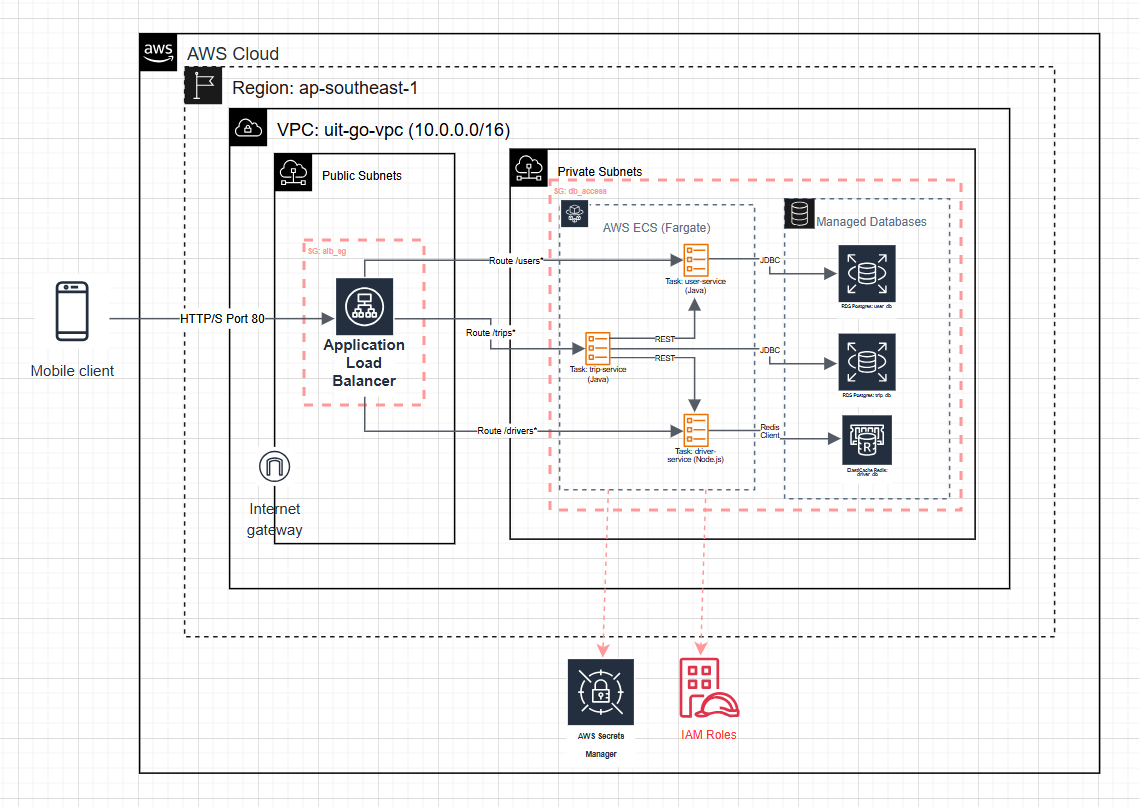
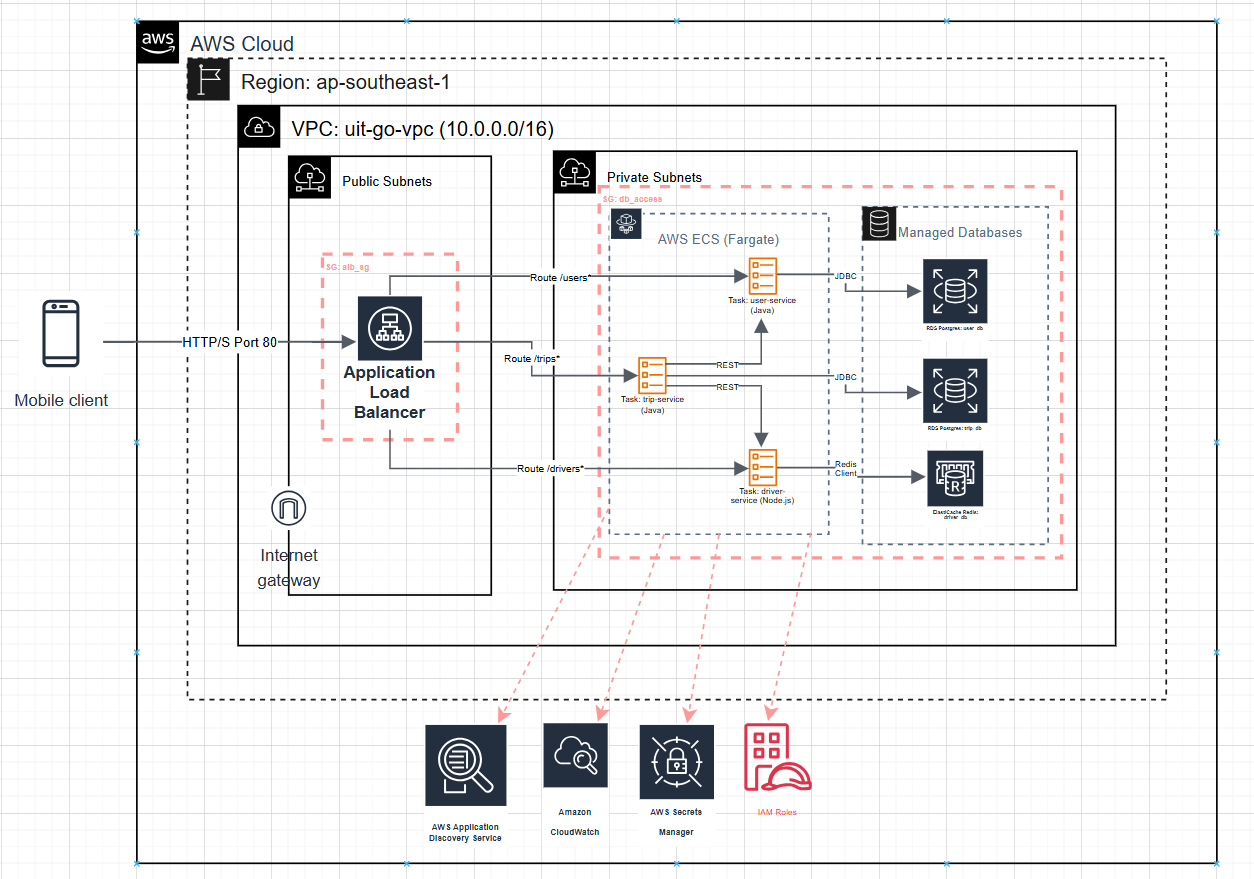
docs(adr): Them ADR 010 (Refactor), 011 (CloudMap), 012 (ECR) va cap nhap architecture

diff --git a/docs/adr/011-chon-cloud-map-cho-service-discovery.md b/docs/adr/011-chon-cloud-map-cho-service-discovery.md
@@ -1,0 +1,33 @@
+# ADR 011: Lựa chọn AWS Cloud Map cho Giao tiếp Nội bộ (Service Discovery)
+
+**Trạng thái:** Đã quyết định
+
+## Bối cảnh
+
+Trong môi trường ECS Fargate, các container (Tasks) được gán địa chỉ IP động mỗi khi chúng khởi động. Điều này tạo ra một vấn đề: Làm thế nào `TripService` (Java) có thể biết được địa chỉ IP hiện tại của `UserService` hoặc `DriverService` để gọi API nội bộ? Các URL tạm thời (`http://user-service.local:8080`) sẽ không hoạt động.
+
+## Các lựa chọn đã cân nhắc
+
+1.  **Gọi qua ALB Public:** `TripService` gọi vào DNS name công cộng của ALB.
+    * **Nhược điểm:** Rất tệ về hiệu năng và chi phí. Traffic đi "vòng" (hairpinning) ra Internet rồi quay lại VPC, gây trễ và tốn chi phí NAT Gateway/ALB.
+
+2.  **Sử dụng ALB Nội bộ (Internal ALB):** Tạo một ALB thứ hai, chỉ truy cập được bên trong VPC.
+    * **Ưu điểm:** Giải pháp tốt, cân bằng tải nội bộ.
+    * **Nhược điểm:** Tốn chi phí cho một ALB nữa. Vẫn cần cấu hình Target Group và Listener Rules.
+
+3.  **Sử dụng AWS Cloud Map (Service Discovery):**
+    * **Ưu điểm:** Giải pháp "chính chủ" (native) của AWS cho ECS. Chúng ta tạo một "namespace" (ví dụ: `uit-go.local`). ECS tự động đăng ký địa chỉ IP của các Task (ví dụ: `driver-service.uit-go.local`) vào đó. `TripService` chỉ cần gọi đến URL nội bộ này.
+    * **Nhược điểm:** Thêm một chút phức tạp ban đầu vào cấu hình Terraform (thêm `aws_service_discovery_service` và `service_registries`).
+
+## Quyết định
+
+Chúng ta quyết định chọn **AWS Cloud Map (Service Discovery)** (Lựa chọn 3) để xử lý giao tiếp nội bộ.
+
+## Lý do & Đánh đổi (Trade-offs)
+
+Đây là quyết định ưu tiên **Hiệu năng (Performance)** và **Kiến trúc Cloud-Native chuẩn** hơn là sự đơn giản (tránh dùng Lựa chọn 1).
+
+* **Ưu điểm (Chúng ta có):**
+    * Traffic giao tiếp nội bộ đi thẳng giữa các service (container-to-container) bên trong VPC, cho độ trễ thấp nhất.
+    * Hệ thống tự động cập nhật IP khi Task (container) khởi động lại hoặc scale.
+* **Nhược điểm (Chúng ta chấp nhận):** Chúng ta chấp nhận thêm tài nguyên Terraform (`aws_service_discovery_private_dns_namespace`) và cấu hình `service_registries` trong `aws_ecs_service`.

diff --git a/docs/adr/010-refactor-terraform-sang-modules.md b/docs/adr/010-refactor-terraform-sang-modules.md
@@ -1,0 +1,28 @@
+# ADR 010: Tái cấu trúc (Refactor) Terraform sang Modules
+
+**Trạng thái:** Đã quyết định
+
+## Bối cảnh
+
+File `main.tf` ban đầu chứa định nghĩa cho toàn bộ 40+ tài nguyên hạ tầng (VPC, Subnets, RDS, ElastiCache, Secrets Manager, ECS, ALB, ECR...). File này trở nên rất dài (hơn 500 dòng), khó đọc, khó bảo trì và khó tìm kiếm khi cần sửa đổi.
+
+## Các lựa chọn đã cân nhắc
+
+1.  **Giữ nguyên 1 file `main.tf` (Monolithic):**
+    * **Ưu điểm:** Đơn giản ban đầu, tất cả code ở một nơi.
+    * **Nhược điểm:** Vi phạm nguyên tắc "Tách biệt các mối quan tâm" (Separation of Concerns). Rất khó bảo trì, khó tìm lỗi, và không thể tái sử dụng.
+
+2.  **Tái cấu trúc sang Local Modules:**
+    * **Ưu điểm:** Phân chia code theo chức năng (ví dụ: `network`, `database`, `ecs`). File `main.tf` (gốc) trở nên gọn gàng, đọc như một bản tóm tắt kiến trúc. Dễ dàng quản lý và bảo trì từng phần.
+    * **Nhược điểm:** Tốn công sức refactor ban đầu (tạo file, di chuyển code, chạy `terraform state mv` để di chuyển trạng thái).
+
+## Quyết định
+
+Chúng ta quyết định chọn **Tái cấu trúc sang Local Modules** (Lựa chọn 2).
+
+## Lý do & Đánh đổi (Trade-offs)
+
+Đây là quyết định ưu tiên **Tính bảo trì (Maintainability)** và **Tính rõ ràng (Clarity)** về lâu dài hơn là sự thuận tiện ban đầu.
+
+* **Ưu điểm (Chúng ta có):** Mã nguồn IaC được tổ chức sạch sẽ, dễ hiểu. Dễ dàng nâng cấp hoặc sửa đổi từng phần (ví dụ: chỉ cần vào module `database` để sửa CSDL) mà không ảnh hưởng đến các phần khác.
+* **Nhược điểm (Chúng ta chấp nhận):** Chúng ta chấp nhận bỏ ra thời gian ban đầu để thực hiện refactor và chạy các lệnh `terraform state mv` phức tạp để di chuyển trạng thái mà không phá hủy hạ tầng.

diff --git a/docs/adr/012-chon-ecr-lam-container-registry.md b/docs/adr/012-chon-ecr-lam-container-registry.md
@@ -1,0 +1,29 @@
+# ADR 012: Lựa chọn AWS ECR làm Kho chứa Container (Container Registry)
+
+**Trạng thái:** Đã quyết định
+
+## Bối cảnh
+
+Các ứng dụng microservices (Java, Node.js) của chúng ta cần được đóng gói thành Docker images. ECS Fargate cần một nơi để "kéo" (pull) các image này về để chạy.
+
+## Các lựa chọn đã cân nhắc
+
+1.  **Docker Hub:** Kho chứa public/private phổ biến nhất.
+    * **Ưu điểm:** Phổ biến, dễ sử dụng.
+    * **Nhược điểm:** Tốc độ pull image từ AWS sang có thể chậm hơn. Phức tạp hơn về bảo mật (ECS cần credentials để pull private image từ Docker Hub).
+
+2.  **AWS ECR (Elastic Container Registry):** Dịch vụ registry "chính chủ" (native) của AWS.
+    * **Ưu điểm:** **Bảo mật & Tích hợp IAM:** Tích hợp hoàn hảo với `ECS Task Execution Role`. Role này (mà chúng ta đã tạo) tự động có quyền pull image từ ECR trong cùng tài khoản mà không cần quản lý thêm bất kỳ token hay mật khẩu nào.
+    * **Hiệu năng:** Image được lưu trữ gần với ECS (cùng Region), giúp tăng tốc độ kéo image và khởi động Task.
+    * **Nhược điểm:** Gây ra "vendor lock-in" (khóa nhà cung cấp) ở mức độ registry.
+
+## Quyết định
+
+Chúng ta quyết định chọn **AWS ECR** (Lựa chọn 2) làm kho chứa container cho dự án. (Chúng ta đã hiện thực hóa bằng tài nguyên `aws_ecr_repository`).
+
+## Lý do & Đánh đổi (Trade-offs)
+
+Đây là quyết định ưu tiên **Bảo mật Tích hợp (Integrated Security)** và **Hiệu năng (Performance)** hơn là **Tính Độc lập (Vendor Agnosticism)**.
+
+* **Ưu điểm (Chúng ta có):** Quy trình xác thực để pull image diễn ra tự động và an toàn qua IAM Role. Tốc độ khởi động container nhanh hơn.
+* **Nhược điểm (Chúng ta chấp nhận):** Chúng ta chấp nhận rằng các image này bị khóa trong hệ sinh thái AWS.
